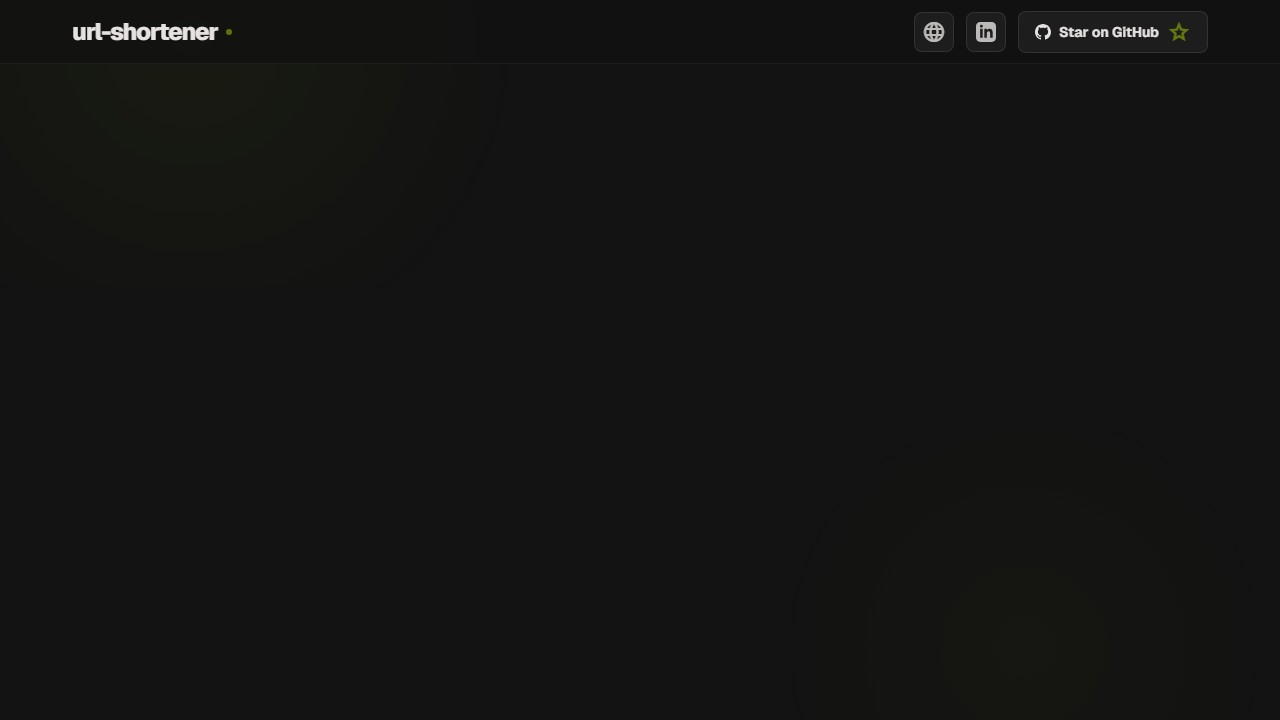
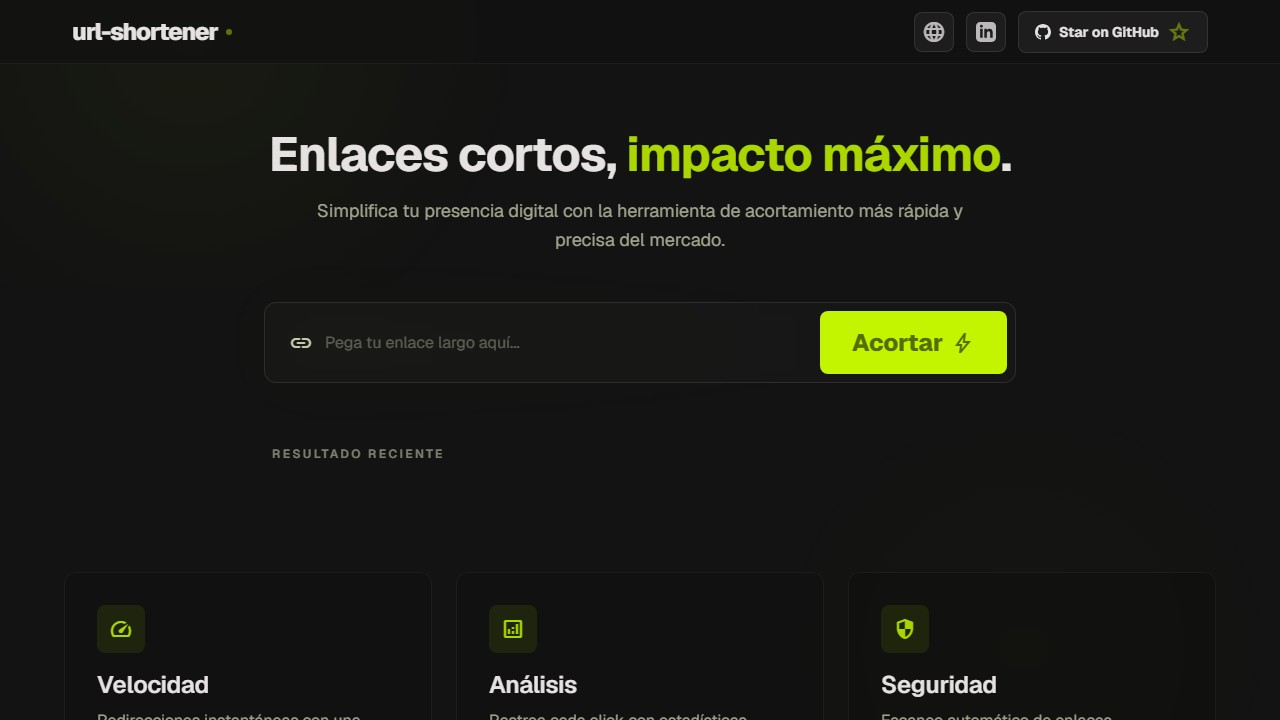
style: fix csp nonce in reveal script and rebuild final screenshot

diff --git a/shortener/templates/shortener/base.html b/shortener/templates/shortener/base.html
@@ -270,7 +270,7 @@
         </div>
       </div>
     </footer>
-    <script>
+    <script nonce="{{ request.csp_nonce }}">
       document.addEventListener("DOMContentLoaded", function () {
         const observer = new IntersectionObserver(
           (entries) => {